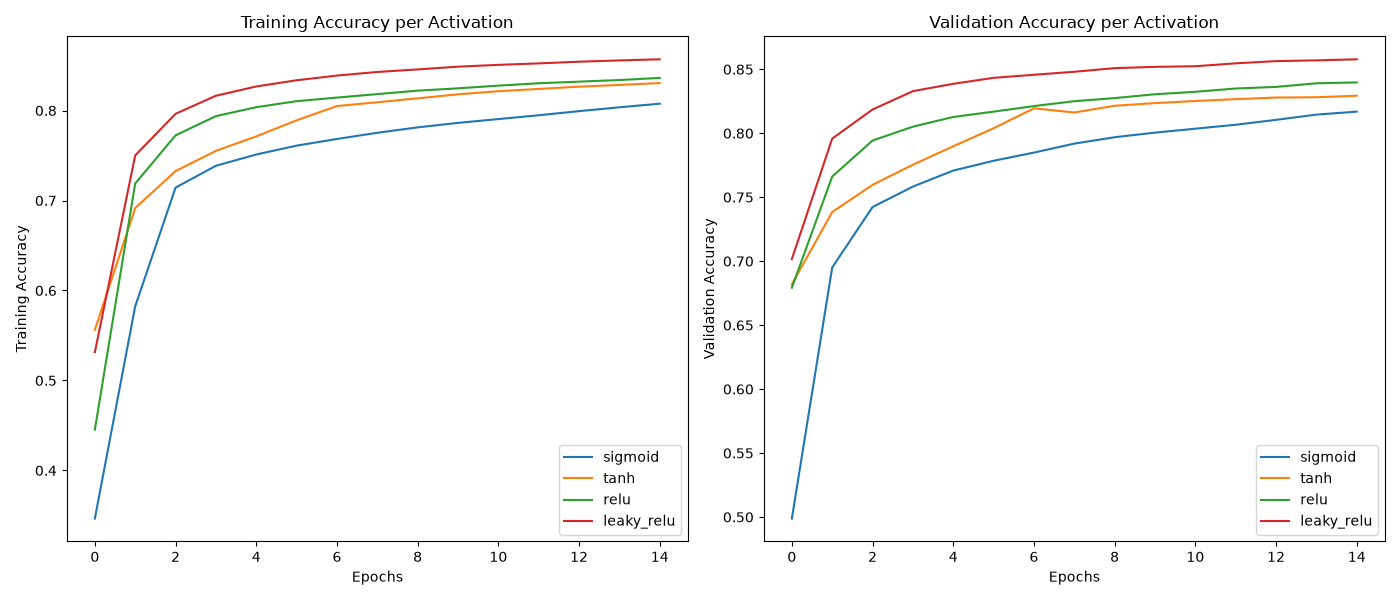
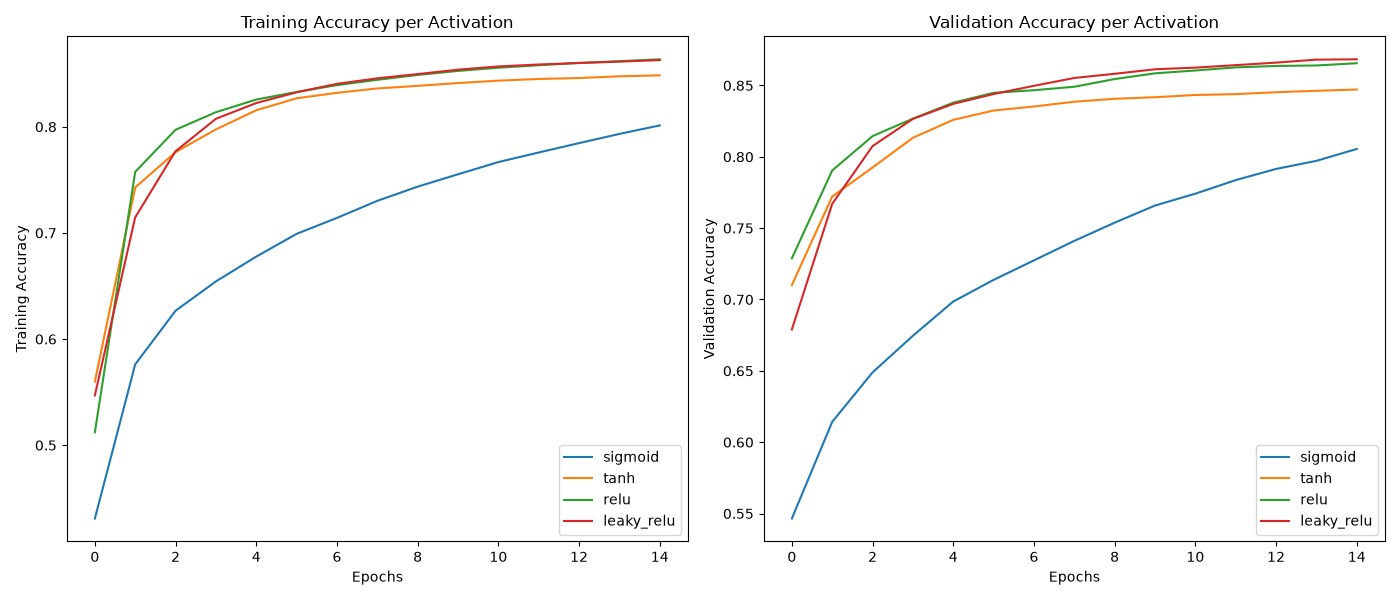
Add task

diff --git a/deep_learning/enhancing_dl_models/5-l2_reg.py b/deep_learning/enhancing_dl_models/5-l2_reg.py
@@ -1,0 +1,22 @@
+#!/usr/bin/env python3
+"""Enhancing Deep Learning Models.
+This module provides functions for optimization, regularization,
+and hyperparameter tuning in Keras."""
+from tensorflow import keras
+
+
+def build_model_with_L2_regularization(
+        input_dim, hidden_units, n_layers, lambda_l2):
+    """Builds a Keras neural network with L2 kernel weight
+    regularization across hidden layers."""
+    regularizer = keras.regularizers.L2(lambda_l2)
+    inputs = keras.Input(shape=(input_dim,))
+    x = keras.layers.Dense(hidden_units, kernel_regularizer=regularizer,
+                           activation="relu")(inputs)
+    for i in range(n_layers - 1):
+        x = keras.layers.Dense(
+            hidden_units,
+            kernel_regularizer=regularizer, activation="relu")(x)
+    outputs = keras.layers.Dense(10, activation="softmax")(x)
+    model = keras.Model(inputs=inputs, outputs=outputs)
+    return model

diff --git a/deep_learning/enhancing_dl_models/4-weight_initialization.py b/deep_learning/enhancing_dl_models/4-weight_initialization.py
@@ -9,12 +9,10 @@ def build_model_initializer_by_activation(
         input_dim, hidden_units, activation):
     """Builds a Keras model using weight initializers
     matched to the activation function."""
-    glorot_init = keras.initializers.GlorotUniform()
-    he_init = keras.initializers.HeNormal()
     if activation == "sigmoid" or activation == "tanh":
-        initializer = glorot_init
+        initializer = keras.initializers.GlorotUniform()
     elif activation == "relu" or activation == "leaky_relu":
-        initializer = he_init
+        initializer = keras.initializers.HeNormal()
     inputs = keras.Input(shape=(input_dim,))
     x = keras.layers.Dense(hidden_units, kernel_initializer=initializer,
                            activation=activation)(inputs)
